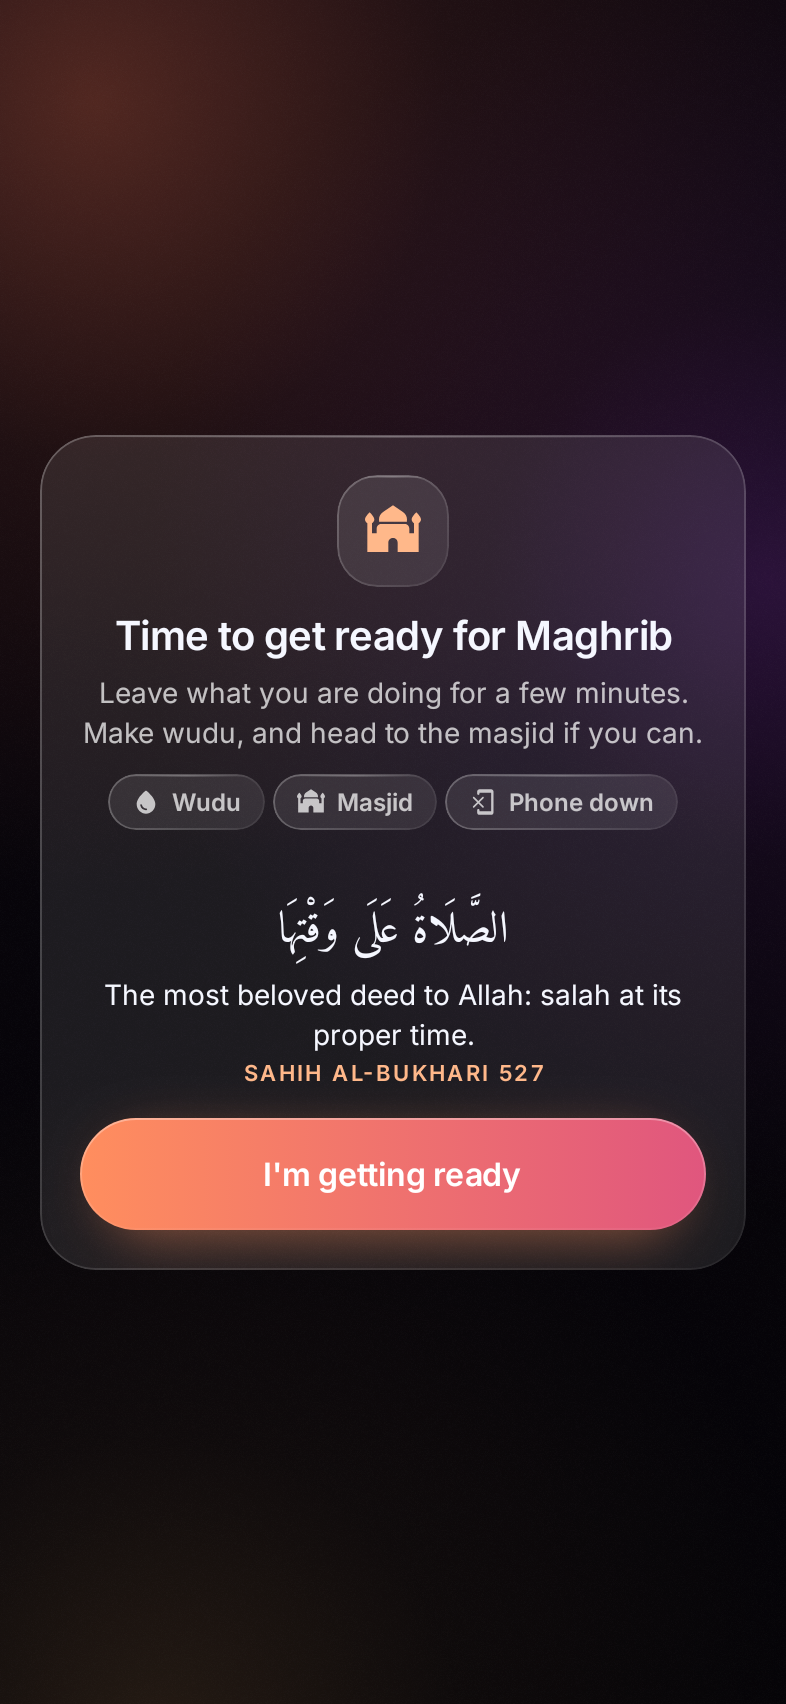
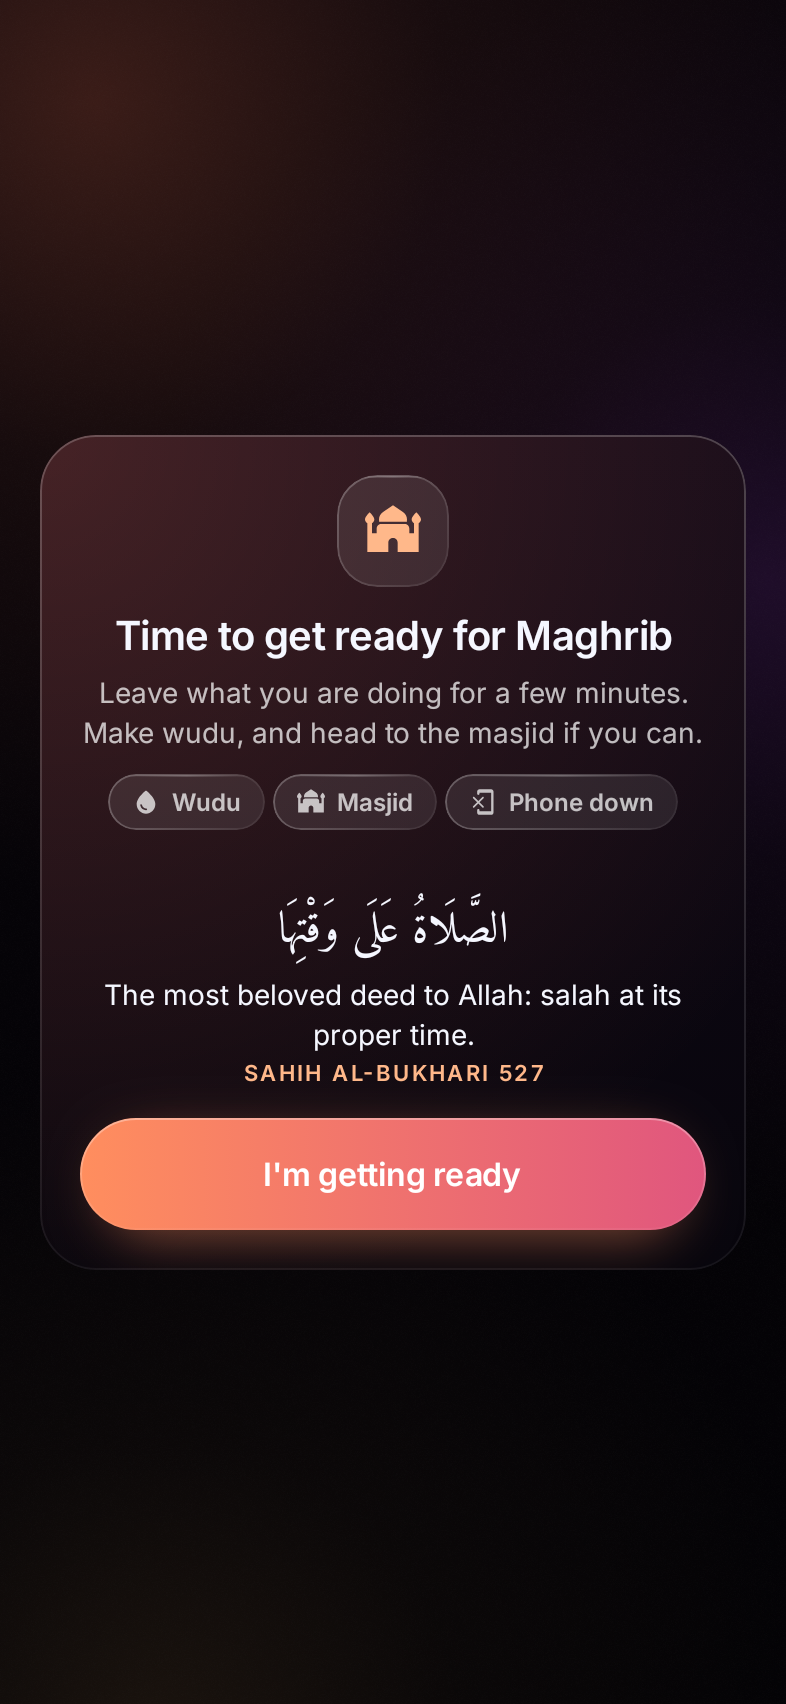
Keep the current salah lit, triple Quls after Fajr and Maghrib, frosted reminder card
The Today card shows a salah as Now for 30 minutes from its time instead of
jumping to the next. After Fajr and Maghrib the three Quls are counted three
times. The reminder card is frosted and nearly solid, with the app behind it
blurred on Android 12+, so it reads clearly over any app or the lock screen.

Changed region(s): [[0.6718, 0.2488, 0.9466, 0.6532]]

diff --git a/app/src/main/java/org/adhkaar/app/session/ReminderPopup.kt b/app/src/main/java/org/adhkaar/app/session/ReminderPopup.kt
@@ -11,6 +11,7 @@ import android.view.WindowManager
 import androidx.compose.animation.core.Animatable
 import androidx.compose.animation.core.spring
 import androidx.compose.foundation.background
+import androidx.compose.foundation.border
 import androidx.compose.foundation.interaction.MutableInteractionSource
 import androidx.compose.foundation.layout.Arrangement
 import androidx.compose.foundation.layout.Box
@@ -23,6 +24,7 @@ import androidx.compose.foundation.layout.height
 import androidx.compose.foundation.layout.padding
 import androidx.compose.foundation.layout.widthIn
 import androidx.compose.foundation.clickable
+import androidx.compose.foundation.shape.RoundedCornerShape
 import androidx.compose.material.icons.Icons
 import androidx.compose.material.icons.rounded.Bedtime
 import androidx.compose.material.icons.rounded.Mosque
@@ -34,6 +36,9 @@ import androidx.compose.runtime.LaunchedEffect
 import androidx.compose.runtime.remember
 import androidx.compose.ui.Alignment
 import androidx.compose.ui.Modifier
+import androidx.compose.ui.draw.clip
+import androidx.compose.ui.geometry.Offset
+import androidx.compose.ui.graphics.Brush
 import androidx.compose.ui.graphics.Color
 import androidx.compose.ui.graphics.graphicsLayer
 import androidx.compose.ui.platform.ComposeView
@@ -47,7 +52,6 @@ import org.adhkaar.app.data.Prayer
 import org.adhkaar.app.enforce.OverlayOwner
 import org.adhkaar.app.ui.MainActivity
 import org.adhkaar.app.ui.SessionActivity
-import org.adhkaar.app.ui.components.GlassCard
 import org.adhkaar.app.ui.components.GlassPill
 import org.adhkaar.app.ui.components.IconBadge
 import org.adhkaar.app.ui.components.PrimaryButton
@@ -72,6 +76,7 @@ object ReminderPopup {
     }
 
     private const val SHOWN_FOR_MS = 3 * 60_000L
+    const val BLUR_RADIUS = 48
     private val main = Handler(Looper.getMainLooper())
     private var view: View? = null
     private var owner: OverlayOwner? = null
@@ -101,7 +106,13 @@ object ReminderPopup {
             WindowManager.LayoutParams.TYPE_APPLICATION_OVERLAY,
             WindowManager.LayoutParams.FLAG_NOT_FOCUSABLE or WindowManager.LayoutParams.FLAG_HARDWARE_ACCELERATED,
             PixelFormat.TRANSLUCENT,
-        )
+        ).apply {
+            // Android 12+ can blur the app behind the window: the frost the card sits on.
+            if (android.os.Build.VERSION.SDK_INT >= 31) {
+                flags = flags or WindowManager.LayoutParams.FLAG_BLUR_BEHIND
+                blurBehindRadius = BLUR_RADIUS
+            }
+        }
         try {
             context.getSystemService(WindowManager::class.java).addView(root, params)
             view = root
@@ -136,11 +147,17 @@ internal fun PopupCard(kind: ReminderPopup.Kind, onDismiss: () -> Unit, onOpen: 
     Box(
         Modifier
             .fillMaxSize()
-            .background(Color.Black.copy(alpha = 0.45f * rise.value))
+            // A deeper dim than in-app dialogs: behind it may be any app, bright or busy.
+            .background(Color.Black.copy(alpha = 0.6f * rise.value))
             .clickable(remember { MutableInteractionSource() }, indication = null, onClick = onDismiss),
         contentAlignment = Alignment.Center,
     ) {
-        GlassCard(
+        // Frosted rather than liquid glass: over another app or the lock screen a see-through card
+        // lets whatever is behind it show through the text, so this one is nearly solid, in the
+        // aura's own colours, with the glass edge and a soft light at the top.
+        val aura = LocalAura.current
+        val shape = RoundedCornerShape(28.dp)
+        Column(
             Modifier
                 .padding(horizontal = Space.gutter)
                 .widthIn(max = 420.dp)
@@ -149,9 +166,13 @@ internal fun PopupCard(kind: ReminderPopup.Kind, onDismiss: () -> Unit, onOpen: 
                     alpha = rise.value
                     translationY = (1f - rise.value) * 60.dp.toPx()
                 }
+                .clip(shape)
+                .background(Brush.verticalGradient(listOf(aura.base[0].copy(alpha = 0.97f), aura.base.last().copy(alpha = 0.97f))))
+                .background(Brush.radialGradient(listOf(aura.glows[0].copy(alpha = 0.22f), Color.Transparent), radius = 900f, center = Offset(0f, 0f)))
+                .border(1.dp, Brush.verticalGradient(listOf(Color.White.copy(alpha = 0.22f), Color.White.copy(alpha = 0.06f))), shape)
                 // Taps on the card stay on the card.
-                .clickable(remember { MutableInteractionSource() }, indication = null) {},
-            level = 2,
+                .clickable(remember { MutableInteractionSource() }, indication = null) {}
+                .padding(Space.gutter),
         ) {
             when (kind) {
                 is ReminderPopup.Kind.Salah -> SalahContent(kind.prayer, onDismiss)

diff --git a/app/src/main/java/org/adhkaar/app/ui/home/HomeScreen.kt b/app/src/main/java/org/adhkaar/app/ui/home/HomeScreen.kt
@@ -538,12 +538,24 @@ private fun QuietShareButton(onClick: () -> Unit) {
 }
 
 /** The next prayer today, or tomorrow's Fajr once Isha has passed (sunrise isn't a prayer). */
+/**
+ * The salah under way: from its time until [PRAYER_ACTIVE_MINUTES] later, which covers getting
+ * ready, the congregation 20 minutes in, and the prayer itself.
+ */
+private fun activePrayer(prayers: List<PrayerTime>, now: ZonedDateTime): PrayerTime? {
+    val t = now.toLocalTime()
+    return prayers.filter { it.name != "Sunrise" }.firstOrNull { !t.isBefore(it.time) && t.isBefore(it.time.plusMinutes(PRAYER_ACTIVE_MINUTES)) }
+}
+
+private const val PRAYER_ACTIVE_MINUTES = 30L
+
 private fun nextPrayer(prayers: List<PrayerTime>, now: ZonedDateTime): PrayerTime =
     prayers.filter { it.name != "Sunrise" }.firstOrNull { it.time.isAfter(now.toLocalTime()) } ?: prayers.first()
 
 /** "10h 52m" with the numbers large and the units small, like "32°C". */
 /** "Asr in 1h 20m", "Fajr in 9h 35m", or "Asr now". */
 private fun nextPrayerLabel(context: android.content.Context, prayers: List<PrayerTime>, now: ZonedDateTime): String {
+    activePrayer(prayers, now)?.let { return context.getString(R.string.today_prayer_now, context.getString(prayerNameRes(it.name))) }
     val p = nextPrayer(prayers, now)
     var at = now.with(p.time)
     if (!at.isAfter(now)) at = at.plusDays(1)
@@ -563,7 +575,9 @@ private val PrayerCardRadius = 20.dp
 private fun PrayerTimesCard(prayers: List<PrayerTime>, now: ZonedDateTime, onOpen: () -> Unit) {
     val context = LocalContext.current
     val accent = LocalAura.current.accent
-    val next = nextPrayer(prayers, now)
+    val active = activePrayer(prayers, now)
+    // While a salah is under way it stays lit as "Now"; otherwise the next one is.
+    val next = active ?: nextPrayer(prayers, now)
     // Like an hourly forecast: one glass pill per time, the next prayer raised and lit.
     Row(Modifier.fillMaxWidth(), horizontalArrangement = Arrangement.spacedBy(6.dp), verticalAlignment = Alignment.Bottom) {
         prayers.forEach { p ->
@@ -586,7 +600,11 @@ private fun PrayerTimesCard(prayers: List<PrayerTime>, now: ZonedDateTime, onOpe
                 verticalArrangement = Arrangement.SpaceBetween,
             ) {
                 Text(
-                    if (isNext) stringResource(R.string.today_next_prayer) else stringResource(prayerNameRes(p.name)),
+                    when {
+                        isNext && active != null -> stringResource(R.string.today_now_prayer)
+                        isNext -> stringResource(R.string.today_next_prayer)
+                        else -> stringResource(prayerNameRes(p.name))
+                    },
                     style = Type.caption.copy(color = if (isNext) Nur.textPrimary else Nur.textTertiary, fontSize = 11.sp),
                     maxLines = 1,
                 )

diff --git a/app/src/main/java/org/adhkaar/app/ui/session/CollectionSession.kt b/app/src/main/java/org/adhkaar/app/ui/session/CollectionSession.kt
@@ -28,7 +28,7 @@ fun CollectionSessionScreen(collectionId: String, onFinish: () -> Unit) {
         DhikrSession(
             key = collectionId,
             overline = collection.title.uppercase(),
-            items = collection.items,
+            items = remember(collectionId) { forPrayerJustPrayed(context, collectionId, collection.items) },
             // Kept nowhere but on screen (saved with it, so a killed process doesn't lose them).
             initialProgress = null,
             onProgress = {},
@@ -62,4 +62,25 @@ fun CollectionSessionScreen(collectionId: String, onFinish: () -> Unit) {
             onFinish = onFinish,
         )
     }
+}
+
+/** The three Quls, which after Fajr and Maghrib are each said three times. */
+private val QULS = setOf("al_ikhlas", "al_falaq", "an_nas")
+
+/**
+ * After salah, the counts follow the prayer just prayed: the latest of the day's five whose time
+ * has come (Isha's, before Fajr). After Fajr or Maghrib the Quls are said three times each.
+ */
+private fun forPrayerJustPrayed(
+    context: android.content.Context,
+    collectionId: String,
+    items: List<org.adhkaar.app.data.SessionDhikr>,
+): List<org.adhkaar.app.data.SessionDhikr> {
+    if (collectionId != "after_salah") return items
+    val settings = org.adhkaar.app.data.SettingsStore.get(context).current
+    val now = java.time.LocalTime.now()
+    val prayed = org.adhkaar.app.data.Prayer.five.lastOrNull { !now.isBefore(org.adhkaar.app.schedule.PrayerClock.time(settings, it)) }
+        ?: org.adhkaar.app.data.Prayer.ISHA
+    if (prayed != org.adhkaar.app.data.Prayer.FAJR && prayed != org.adhkaar.app.data.Prayer.MAGHRIB) return items
+    return items.map { if (it.id in QULS) it.copy(count = 3) else it }
 }

diff --git a/app/src/main/java/org/adhkaar/app/ui/ReminderActivity.kt b/app/src/main/java/org/adhkaar/app/ui/ReminderActivity.kt
@@ -30,6 +30,11 @@ class ReminderActivity : ComponentActivity() {
             @Suppress("DEPRECATION")
             window.addFlags(WindowManager.LayoutParams.FLAG_SHOW_WHEN_LOCKED or WindowManager.LayoutParams.FLAG_TURN_SCREEN_ON)
         }
+        // The lock screen or app behind is blurred, like the pop-up's window (Android 12+).
+        if (Build.VERSION.SDK_INT >= 31) {
+            window.addFlags(WindowManager.LayoutParams.FLAG_BLUR_BEHIND)
+            window.attributes = window.attributes.also { it.blurBehindRadius = ReminderPopup.BLUR_RADIUS }
+        }
         val kind = kindOf(intent) ?: return finish()
         setContent {
             AdhkaarTheme(aura = if (kind is ReminderPopup.Kind.Collection && kind.id == "before_sleep") Auras.evening else Auras.dawn) {
